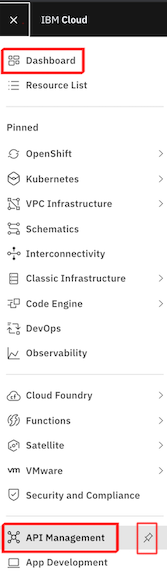
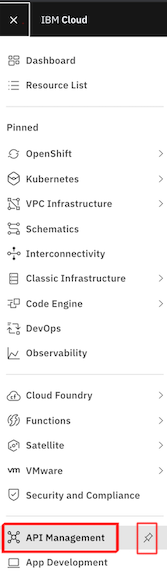
apic lab update

Changed region(s): [[0.0, 0.0592, 0.509, 0.1481]]

diff --git a/lab-apic-01.md b/lab-apic-01.md
@@ -2,20 +2,26 @@
 
 ## Prerequisites
 
-Access to IBM Cloud and our shared API Connect instance.
+Access to our provided IBM Cloud account plus the shared API Connect instance.
 
 ## Supporting Information
 
-Navigate to your API Connect Instance through IBM Cloud -> Dashboard -> API Management. Use the pin button to move the menu entry upwards for easier accessiblity.
+Navigate to our API Connect Instance via IBM Cloud -> "Navigation Menu (top left) -> API Management. Use the pin button to move the menu entry upwards for easier accessiblity.
 
 ![image](images/lab-apic-01-nav.png)
 
+Then select the '\*-bootcamp-apic' API Connect service to navigate to the API Connect Dashboard.
+
+![image](images/lab-apic-01-service.png)
+
 ## Challenges to be solved
 
-Create a new API Catalog called 'dev-yourinitials' within the API Connect Instance.
+Create a new API Catalog called 'dev-yourinitials' within the API Connect Instance by just adding it from the Dashboard.
 
 ## Verification
 
-On the dashboard of API Connect you should see your created catalog. Excellent, we ensured that you have access and sufficient permissions to work with our API Connect instance.
+On the dashboard of API Connect you should see your created catalog.
 
 ![image](images/lab-apic-01-catalog.png)
+
+Excellent, we ensured that you have access and sufficient permissions to work with our API Connect instance.
